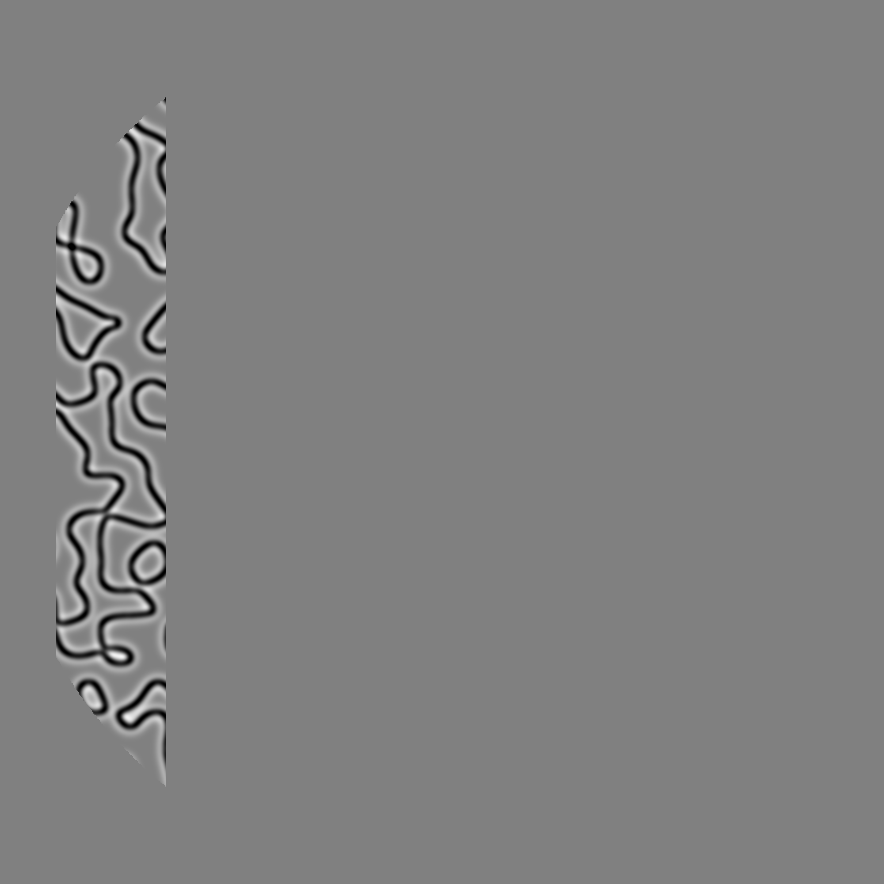
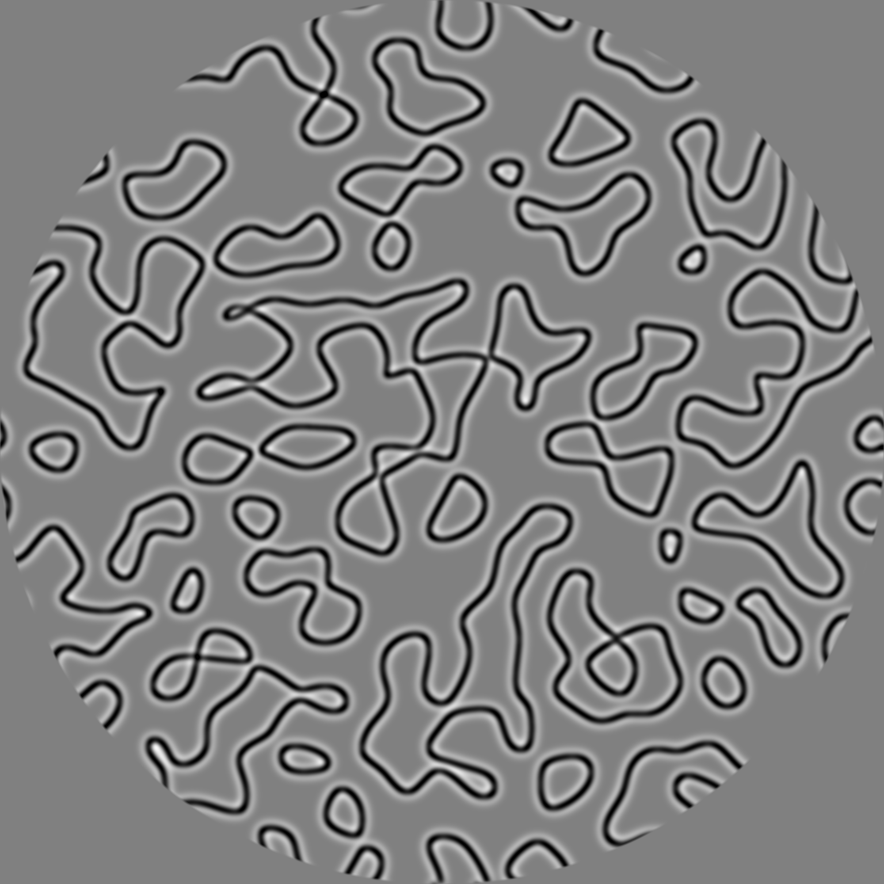
change order in which images are done

diff --git a/qttasks/presentation.py b/qttasks/presentation.py
@@ -79,6 +79,7 @@ class PrettyWidget(QOpenGLWidget):
     sound = {'start': None, 'end': None}
     fast_tsv = None
     fast_i = None
+    fast_t = None
 
     def __init__(self, parameters):
         super().__init__()
@@ -183,11 +184,8 @@ class PrettyWidget(QOpenGLWidget):
 
         else:
             
-            current_pixmap = self.stimuli['stim_file'][self.current_index]
-            
             if self.fast_tsv is not None:
                 i_pixmap = where(self.fast_tsv['onset'] <= self.fast_i)[0][-1]
-                self.fast_i += 1
                 
                 if self.fast_i == self.fast_tsv['onset'][-1]:
                     self.fast_tsv = None
@@ -195,42 +193,58 @@ class PrettyWidget(QOpenGLWidget):
                     self.frameSwapped.disconnect()
                 
                 elif self.fast_tsv['stim_file'][i_pixmap] is not None:
+                
+                    current_pixmap = self.fast_tsv['stim_file'][i_pixmap]
+                    image_rect = current_pixmap.rect()
+                    size = image_rect.size().scaled(window_rect.size(), Qt.KeepAspectRatio)
+                    img_origin_x = rect_x - int(size.width() / 2)
+                    img_origin_y = rect_y - int(size.height() / 2)
                
-                    qp.beginNativePainting()
-                    qp.drawPixmap(0, 0, self.fast_tsv['stim_file'][i_pixmap])
-                    qp.endNativePainting()
+                    # qp.beginNativePainting()
+                    qp.drawPixmap(
+                        img_origin_x,
+                        img_origin_y,
+                        size.width(),
+                        size.height(),
+                        current_pixmap)
+                    # qp.endNativePainting()
+                    
                     lg.debug(f'FAST IMAGE #{self.fast_i}')
+                    self.fast_i += 1
             
-            elif isinstance(current_pixmap, str):
+            else:
+            
+                current_pixmap = self.stimuli['stim_file'][self.current_index]
+                if isinstance(current_pixmap, str):
 
-                if current_pixmap.endswith('.tsv'):
-                    self.fast_tsv = read_fast_stimuli(IMAGES_DIR / current_pixmap)
-                    self.fast_i = 0
+                    if current_pixmap.endswith('.tsv'):
+                        self.fast_tsv = read_fast_stimuli(IMAGES_DIR / current_pixmap)
+                        self.fast_i = 0
+
+                    else:
+
+                        self.draw_text(qp, current_pixmap)
+                        if current_pixmap == 'END':
+                            if not self.finished:
+                                self.finished = True
+                                self.serial(None)
+                                if self.sound['end'] is not None:
+                                    self.sound['end'].play()
 
                 else:
+                    image_rect = current_pixmap.rect()
 
-                    self.draw_text(qp, current_pixmap)
-                    if current_pixmap == 'END':
-                        if not self.finished:
-                            self.finished = True
-                            self.serial(None)
-                            if self.sound['end'] is not None:
-                                self.sound['end'].play()
+                    size = image_rect.size().scaled(window_rect.size(), Qt.KeepAspectRatio)
+                    img_origin_x = rect_x - int(size.width() / 2)
+                    img_origin_y = rect_y - int(size.height() / 2)
+                    qp.drawPixmap(
+                        img_origin_x,
+                        img_origin_y,
+                        size.width(),
+                        size.height(),
+                        current_pixmap)
 
-            else:
-                image_rect = current_pixmap.rect()
-
-                size = image_rect.size().scaled(window_rect.size(), Qt.KeepAspectRatio)
-                img_origin_x = rect_x - int(size.width() / 2)
-                img_origin_y = rect_y - int(size.height() / 2)
-                qp.drawPixmap(
-                    img_origin_x,
-                    img_origin_y,
-                    size.width(),
-                    size.height(),
-                    current_pixmap)
-
-            self.drawText(qp)
+                self.drawText(qp)
 
         qp.end()
 
